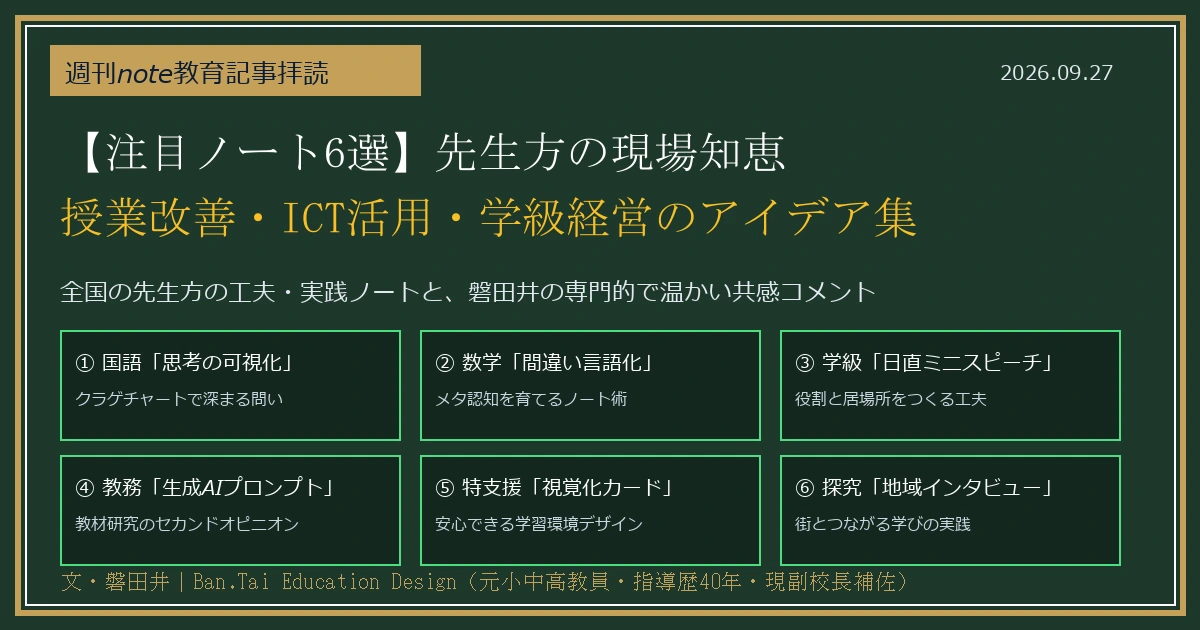
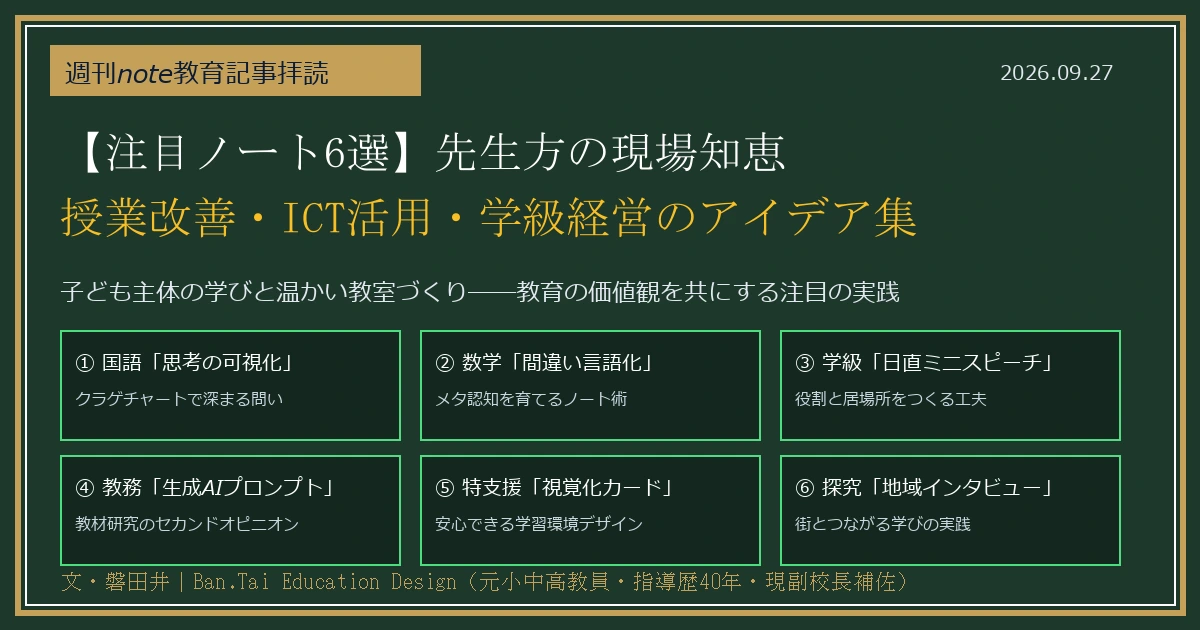
feat(columns): update note curation articles to introduce shared educational values without personal comments

Changed region(s): [[0.0308, 0.4524, 0.7708, 0.4825]]

diff --git a/columns/index.html b/columns/index.html
@@ -36,6 +36,7 @@
         <a href="/resources/textbook-plans/">📚 教科書会社DB</a>
         <a href="/tools/university-database/">🎓 全国大学DB</a>
         <a href="/tools/school-database/">🏫 全国学校DB</a>
+        <a href="/tools/school-database/analytics/">📊 地域統計</a>
         <a class="active" href="/columns/">コラム</a>
         <a href="/about/">Ban.Taiについて</a>
         <a href="/contact/">サポート</a>
